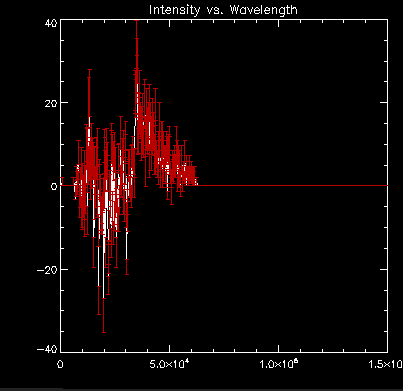
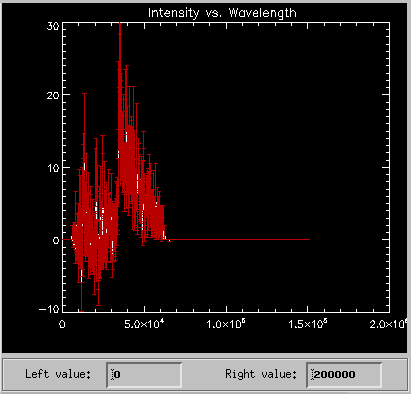
Refs #139. Updated pictures to take into account new feature of REF_L side (interaction with x-axis of data_reduction_plot.

Changed region(s): [[0.0, 0.0, 1.0, 1.0]]

diff --git a/trunk/gui/idldocs/DataReduction/data_reduction.html b/trunk/gui/idldocs/DataReduction/data_reduction.html
@@ -223,7 +223,7 @@ The large display on the left is where the NeXus run will be displayed.
 
   <ul>
   <li><font color=green><a id="link13">Data Reduction</a></font></li><br>
-      <center><img src='REF_L_images/data_reducton_tab_1.png'></img></center><br>
+      <center><img src='REF_L_images/data_reduction_tab_1.png'></img></center><br>
       <ul>
       <li> <u><a id="link14">Pid files<a>:</u> To be able to activate the <b>START DATA REDUCTION</b>
            button, a signal Pid (Pixel ID) and a Background Pid files must be loaded. To do so, 

diff --git a/trunk/gui/idldocs/sns_idl_tools_menu.htm b/trunk/gui/idldocs/sns_idl_tools_menu.htm
@@ -19,7 +19,7 @@
 </form>
 <form method="link" action='DataReduction/data_reduction.html' target='introduction'>
 <input type='submit' value='DataReduction'>
-<a href="update.html" target='introduction'><img src='images/update.gif'>(03/06/07)</a>
+<a href="update.html" target='introduction'><img src='images/update.gif'>(03/09/07)</a>
 </form>
 <form method="link" action='moreNeXus/moreNeXus.html' target='introduction'>
 <input type='submit' value='more_NeXus'><img src='images/coming_soon.gif'>

diff --git a/trunk/gui/idldocs/update.html b/trunk/gui/idldocs/update.html
@@ -42,7 +42,8 @@ pixels).
 
 <h3><center>DataReduction</center></h3>
 <ul>
-<li>(03/06/07) Updated plots and text to add new feature - Save Session.</li>
+<li>(03/09/07) Updated pictures to take into account new feature - data_reduction x_axis interaction</li>
+<li>(03/06/07) Updated pictures and text to add description of new feature - Save Session.</li>
 <li>(03/05/07)
  <ul>
  <li> Updated pictures (MENU -> File, Open_NeXus button in top menu removed).</li>
